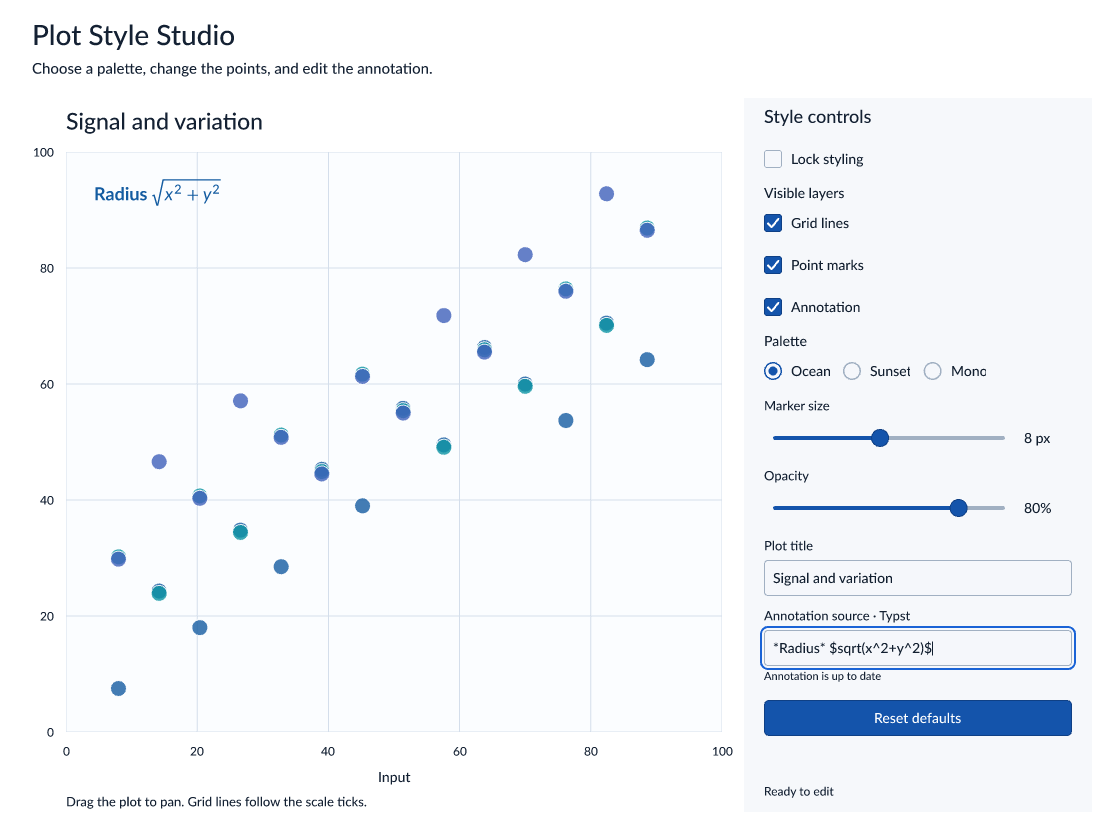
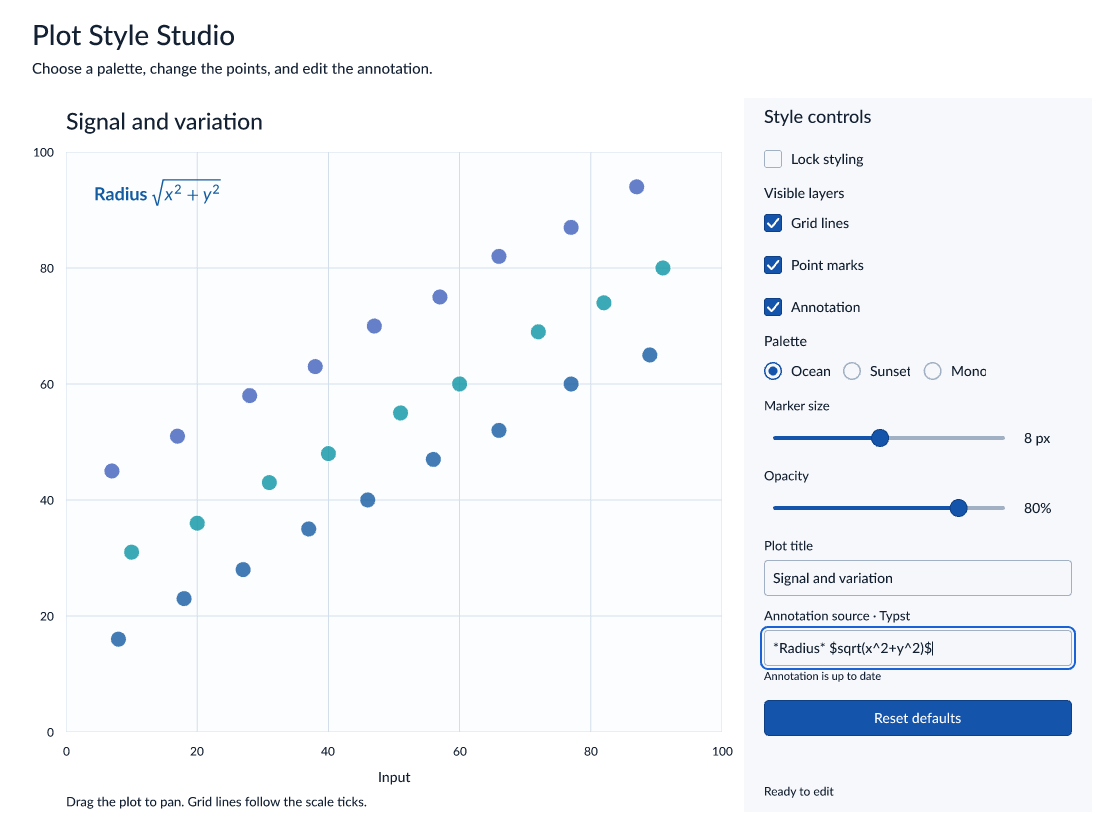
fix(examples): separate widget demo sample points

diff --git a/examples/winit-widgets/src/scene.rs b/examples/winit-widgets/src/scene.rs
@@ -16,6 +16,42 @@ use avenger_scenegraph::{
 use avenger_text::types::{TextAlign, TextBaseline, TextSyntaxMode};
 use avenger_widgets::{Rect, WidgetTheme};
 const INK: [f32; 4] = [0.08, 0.13, 0.20, 1.0];
+// Keep points separated at the largest marker size, including in the smallest plot.
+const POINT_SERIES: [[(f32, f32); 9]; 3] = [
+    [
+        (8.0, 16.0),
+        (18.0, 23.0),
+        (27.0, 28.0),
+        (37.0, 35.0),
+        (46.0, 40.0),
+        (56.0, 47.0),
+        (66.0, 52.0),
+        (77.0, 60.0),
+        (89.0, 65.0),
+    ],
+    [
+        (10.0, 31.0),
+        (20.0, 36.0),
+        (31.0, 43.0),
+        (40.0, 48.0),
+        (51.0, 55.0),
+        (60.0, 60.0),
+        (72.0, 69.0),
+        (82.0, 74.0),
+        (91.0, 80.0),
+    ],
+    [
+        (7.0, 45.0),
+        (17.0, 51.0),
+        (28.0, 58.0),
+        (38.0, 63.0),
+        (47.0, 70.0),
+        (57.0, 75.0),
+        (66.0, 82.0),
+        (77.0, 87.0),
+        (87.0, 94.0),
+    ],
+];
 fn label(value: impl Into<String>, x: f32, y: f32, size: f32) -> SceneTextMark {
     SceneTextMark {
         interactive: false,
@@ -128,12 +164,7 @@ pub fn build(state: &mut State) -> Result<SceneBuild, String> {
         ],
     };
     if state.layers.contains(&"points".into()) {
-        for i in 0..42 {
-            let x = 8.0 + (i % 14) as f32 * 6.2;
-            let y = 18.0
-                + (i % 14) as f32 * 4.2
-                + (i / 14) as f32 * 8.0
-                + ((i * 17 % 11) as f32 - 5.0) * 2.1;
+        for (i, &(x, y)) in POINT_SERIES.iter().flatten().enumerate() {
             let px = sx
                 .scale_scalar(&x)
                 .and_then(|v| v.as_f32())
@@ -142,7 +173,7 @@ pub fn build(state: &mut State) -> Result<SceneBuild, String> {
                 .scale_scalar(&y)
                 .and_then(|v| v.as_f32())
                 .map_err(|e| e.to_string())?;
-            let mut color = palette[i / 14];
+            let mut color = palette[i / POINT_SERIES[0].len()];
             color[3] = state.opacity as f32;
             plot_marks.push(
                 SceneSymbolMark {
